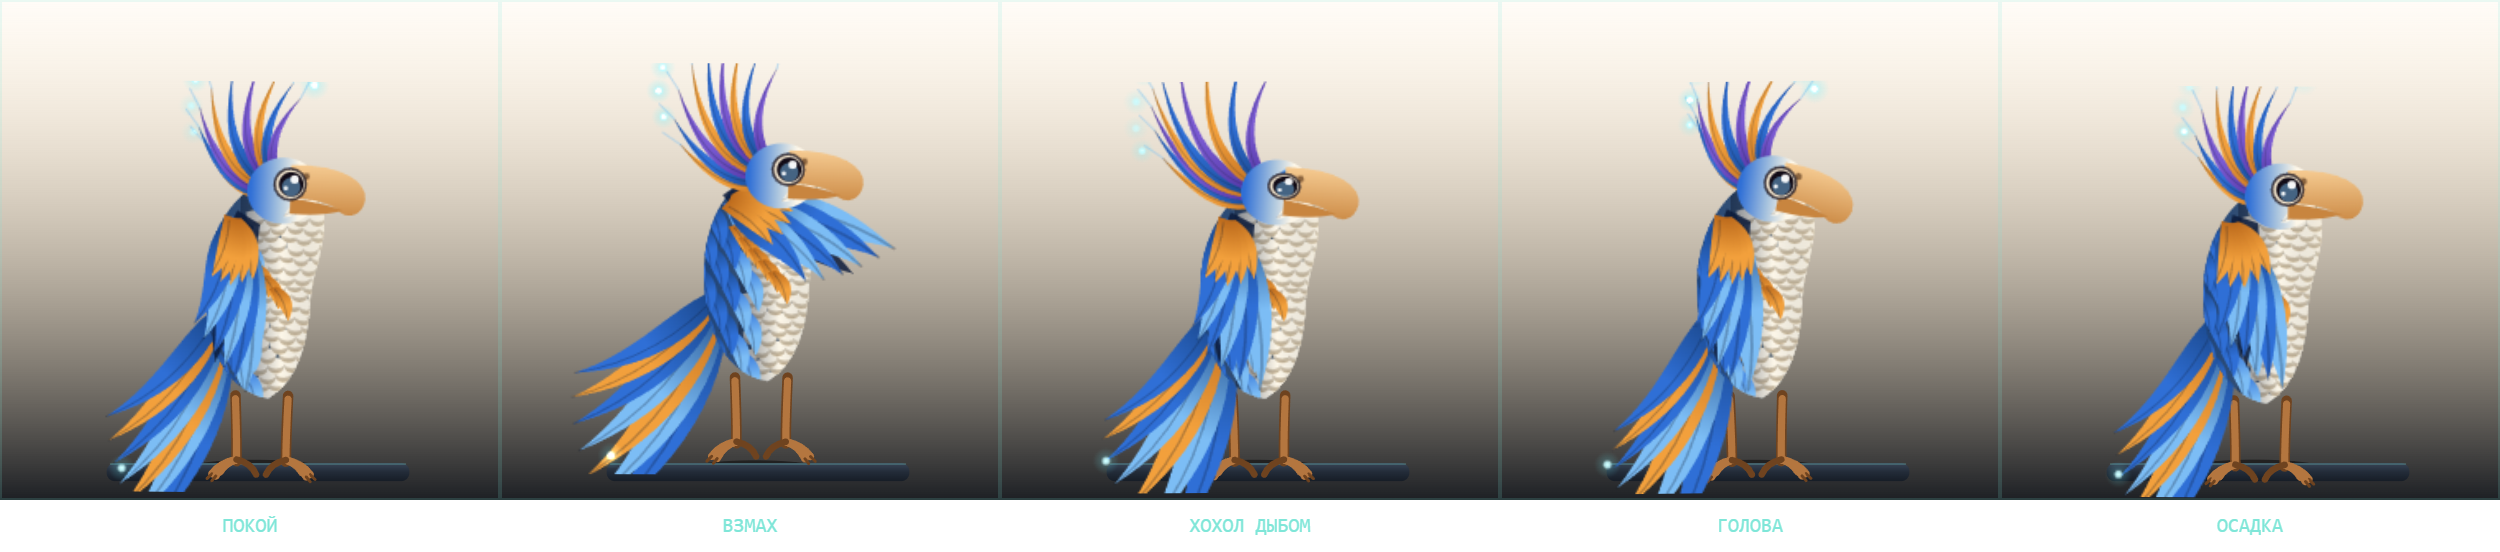
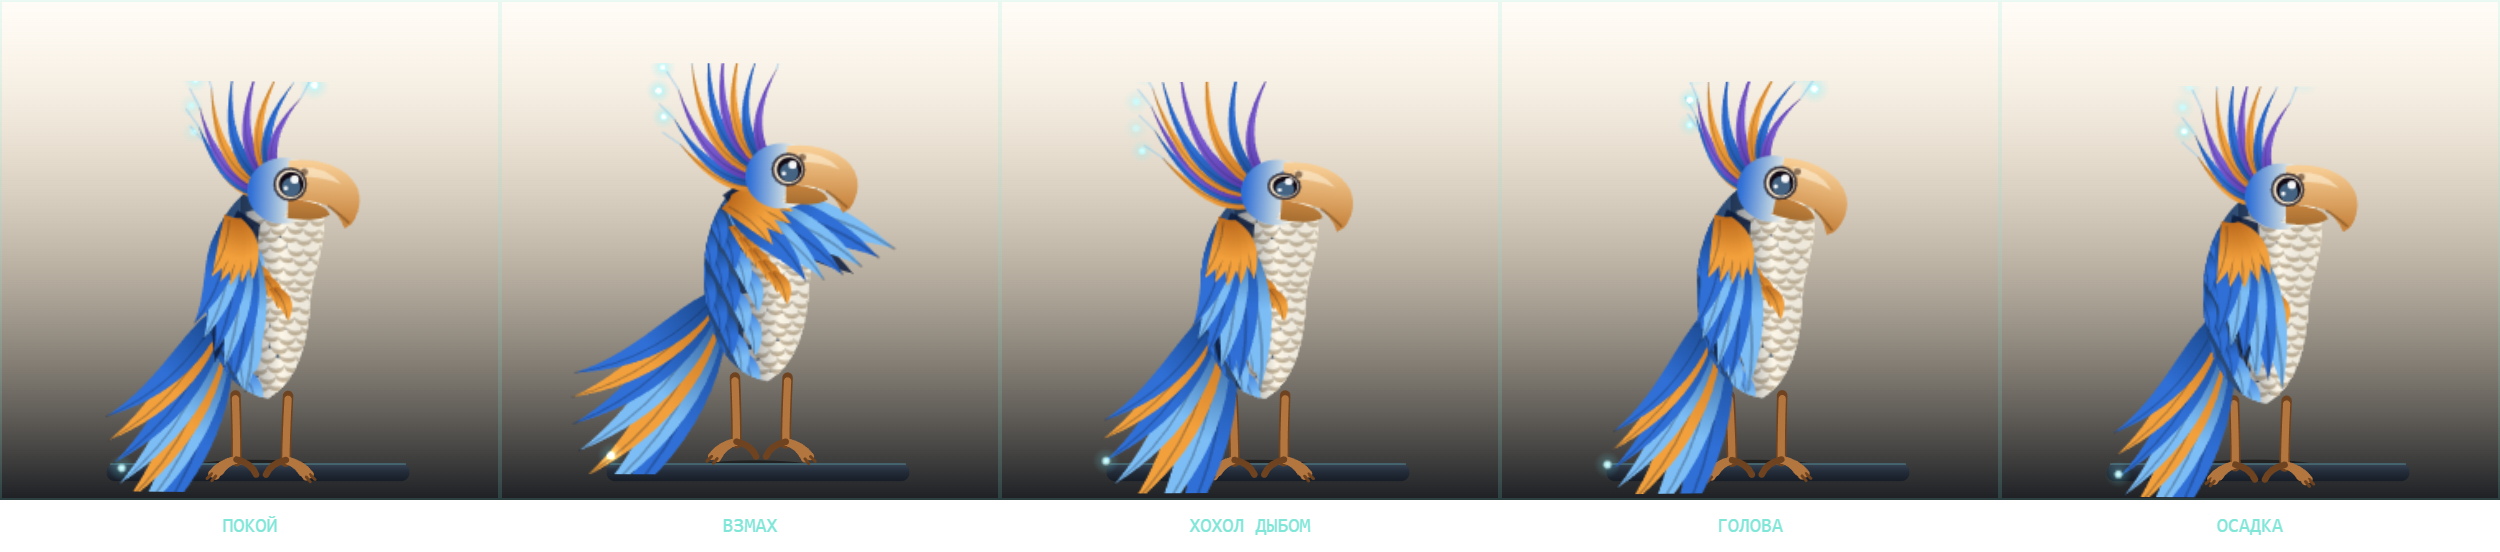
M117: the beak is a parrot's, not a crow's
It read as a long sharp wedge. Rebuilt as a high humped culmen turning down and
back under itself, with a blunt tip, an undercut shadow that keeps the hook a hook
rather than a lump, a highlight along the ridge and a short wide lower mandible.

diff --git a/docs/parrot.html b/docs/parrot.html
@@ -12413,19 +12413,40 @@ function parrotDraw(c,W,H){
   const bg2=g.createLinearGradient(0,-12,0,14);
   bg2.addColorStop(0,PAR_C.beak);bg2.addColorStop(1,PAR_C.beakD);
   g.fillStyle=bg2;
-  g.beginPath();g.moveTo(-8,-11);
-  g.bezierCurveTo(16,-12,27,-4,26,4);      /* спинка надклювья */
-  g.bezierCurveTo(25,10,20,13,15,10);      /* крючок */
-  g.bezierCurveTo(12,6,2,4,-8,4);
+  /* Клюв попугая — не клин, а высокая горбатая надклювная дуга, круто
+     заворачивающая вниз и НАЗАД, под себя. Прежний вариант был длинным и
+     острым: у птицы получался вороний клюв, а порода в референсе тупая и
+     мясистая, и держится она именно на этом изгибе. */
+  g.beginPath();
+  g.moveTo(-9,-13);                        /* восковица у самого лба */
+  g.bezierCurveTo(6,-15,18,-10,22,-2);     /* горб надклювья */
+  g.bezierCurveTo(25,4,23,11,20,15);       /* спуск к острию */
+  g.lineTo(17,17);                         /* само остриё — тупое, но остриё */
+  g.bezierCurveTo(15,12,12,9,9,7);         /* крючок подобран назад, с подрезом */
+  g.bezierCurveTo(4,5,-2,4.5,-9,4.5);
   g.closePath();g.fill();
-  /* подклювье отъезжает, когда птица говорит */
-  g.save();g.translate(0,PAR.beak*4.5);
-  g.fillStyle=PAR_C.beakD;
-  g.beginPath();g.moveTo(-8,4);g.quadraticCurveTo(8,6,16,9);
-  g.quadraticCurveTo(6,12,-8,11);g.closePath();g.fill();
+  /* подрез под крючком: тонкая тень, от которой остриё читается остриём,
+     а не округлым наплывом. Без неё клюв превращается в шишку. */
+  g.strokeStyle="rgba(90,54,16,.45)";g.lineWidth=1.1;
+  g.beginPath();g.moveTo(19,14.5);
+  g.bezierCurveTo(15,11,12,8.5,9,7);g.stroke();
+  /* блик по горбу: без него клюв — плоское пятно, а он гладкий и твёрдый */
+  g.fillStyle="rgba(255,246,226,.5)";
+  g.beginPath();g.moveTo(-4,-10);
+  g.quadraticCurveTo(8,-11,15,-3);
+  g.quadraticCurveTo(7,-6,-4,-6);g.closePath();g.fill();
+  /* подклювье: короткая широкая чаша, отъезжает, когда птица говорит */
+  g.save();g.translate(0,PAR.beak*5);
+  const lg2=g.createLinearGradient(0,4,0,15);
+  lg2.addColorStop(0,PAR_C.beakD);lg2.addColorStop(1,"#a06a2e");
+  g.fillStyle=lg2;
+  g.beginPath();g.moveTo(-9,4);
+  g.bezierCurveTo(2,5,9,7,10,11);
+  g.bezierCurveTo(6,14,-3,14,-9,13);
+  g.closePath();g.fill();
   g.restore();
   g.fillStyle="rgba(60,30,10,.55)";
-  g.beginPath();g.arc(-1,-6,1.5,0,7);g.fill();   /* ноздря */
+  g.beginPath();g.arc(-2,-8,1.6,0,7);g.fill();   /* ноздря */
   g.restore();
   /* 4г. глаз: крупный, круглый, с двумя бликами — от него всё обаяние */
   const bl=1-PAR.blink;

diff --git a/drift.html b/drift.html
@@ -12413,19 +12413,40 @@ function parrotDraw(c,W,H){
   const bg2=g.createLinearGradient(0,-12,0,14);
   bg2.addColorStop(0,PAR_C.beak);bg2.addColorStop(1,PAR_C.beakD);
   g.fillStyle=bg2;
-  g.beginPath();g.moveTo(-8,-11);
-  g.bezierCurveTo(16,-12,27,-4,26,4);      /* спинка надклювья */
-  g.bezierCurveTo(25,10,20,13,15,10);      /* крючок */
-  g.bezierCurveTo(12,6,2,4,-8,4);
+  /* Клюв попугая — не клин, а высокая горбатая надклювная дуга, круто
+     заворачивающая вниз и НАЗАД, под себя. Прежний вариант был длинным и
+     острым: у птицы получался вороний клюв, а порода в референсе тупая и
+     мясистая, и держится она именно на этом изгибе. */
+  g.beginPath();
+  g.moveTo(-9,-13);                        /* восковица у самого лба */
+  g.bezierCurveTo(6,-15,18,-10,22,-2);     /* горб надклювья */
+  g.bezierCurveTo(25,4,23,11,20,15);       /* спуск к острию */
+  g.lineTo(17,17);                         /* само остриё — тупое, но остриё */
+  g.bezierCurveTo(15,12,12,9,9,7);         /* крючок подобран назад, с подрезом */
+  g.bezierCurveTo(4,5,-2,4.5,-9,4.5);
   g.closePath();g.fill();
-  /* подклювье отъезжает, когда птица говорит */
-  g.save();g.translate(0,PAR.beak*4.5);
-  g.fillStyle=PAR_C.beakD;
-  g.beginPath();g.moveTo(-8,4);g.quadraticCurveTo(8,6,16,9);
-  g.quadraticCurveTo(6,12,-8,11);g.closePath();g.fill();
+  /* подрез под крючком: тонкая тень, от которой остриё читается остриём,
+     а не округлым наплывом. Без неё клюв превращается в шишку. */
+  g.strokeStyle="rgba(90,54,16,.45)";g.lineWidth=1.1;
+  g.beginPath();g.moveTo(19,14.5);
+  g.bezierCurveTo(15,11,12,8.5,9,7);g.stroke();
+  /* блик по горбу: без него клюв — плоское пятно, а он гладкий и твёрдый */
+  g.fillStyle="rgba(255,246,226,.5)";
+  g.beginPath();g.moveTo(-4,-10);
+  g.quadraticCurveTo(8,-11,15,-3);
+  g.quadraticCurveTo(7,-6,-4,-6);g.closePath();g.fill();
+  /* подклювье: короткая широкая чаша, отъезжает, когда птица говорит */
+  g.save();g.translate(0,PAR.beak*5);
+  const lg2=g.createLinearGradient(0,4,0,15);
+  lg2.addColorStop(0,PAR_C.beakD);lg2.addColorStop(1,"#a06a2e");
+  g.fillStyle=lg2;
+  g.beginPath();g.moveTo(-9,4);
+  g.bezierCurveTo(2,5,9,7,10,11);
+  g.bezierCurveTo(6,14,-3,14,-9,13);
+  g.closePath();g.fill();
   g.restore();
   g.fillStyle="rgba(60,30,10,.55)";
-  g.beginPath();g.arc(-1,-6,1.5,0,7);g.fill();   /* ноздря */
+  g.beginPath();g.arc(-2,-8,1.6,0,7);g.fill();   /* ноздря */
   g.restore();
   /* 4г. глаз: крупный, круглый, с двумя бликами — от него всё обаяние */
   const bl=1-PAR.blink;

diff --git a/src/12y-parrot-face.js b/src/12y-parrot-face.js
@@ -365,19 +365,40 @@ function parrotDraw(c,W,H){
   const bg2=g.createLinearGradient(0,-12,0,14);
   bg2.addColorStop(0,PAR_C.beak);bg2.addColorStop(1,PAR_C.beakD);
   g.fillStyle=bg2;
-  g.beginPath();g.moveTo(-8,-11);
-  g.bezierCurveTo(16,-12,27,-4,26,4);      /* спинка надклювья */
-  g.bezierCurveTo(25,10,20,13,15,10);      /* крючок */
-  g.bezierCurveTo(12,6,2,4,-8,4);
+  /* Клюв попугая — не клин, а высокая горбатая надклювная дуга, круто
+     заворачивающая вниз и НАЗАД, под себя. Прежний вариант был длинным и
+     острым: у птицы получался вороний клюв, а порода в референсе тупая и
+     мясистая, и держится она именно на этом изгибе. */
+  g.beginPath();
+  g.moveTo(-9,-13);                        /* восковица у самого лба */
+  g.bezierCurveTo(6,-15,18,-10,22,-2);     /* горб надклювья */
+  g.bezierCurveTo(25,4,23,11,20,15);       /* спуск к острию */
+  g.lineTo(17,17);                         /* само остриё — тупое, но остриё */
+  g.bezierCurveTo(15,12,12,9,9,7);         /* крючок подобран назад, с подрезом */
+  g.bezierCurveTo(4,5,-2,4.5,-9,4.5);
   g.closePath();g.fill();
-  /* подклювье отъезжает, когда птица говорит */
-  g.save();g.translate(0,PAR.beak*4.5);
-  g.fillStyle=PAR_C.beakD;
-  g.beginPath();g.moveTo(-8,4);g.quadraticCurveTo(8,6,16,9);
-  g.quadraticCurveTo(6,12,-8,11);g.closePath();g.fill();
+  /* подрез под крючком: тонкая тень, от которой остриё читается остриём,
+     а не округлым наплывом. Без неё клюв превращается в шишку. */
+  g.strokeStyle="rgba(90,54,16,.45)";g.lineWidth=1.1;
+  g.beginPath();g.moveTo(19,14.5);
+  g.bezierCurveTo(15,11,12,8.5,9,7);g.stroke();
+  /* блик по горбу: без него клюв — плоское пятно, а он гладкий и твёрдый */
+  g.fillStyle="rgba(255,246,226,.5)";
+  g.beginPath();g.moveTo(-4,-10);
+  g.quadraticCurveTo(8,-11,15,-3);
+  g.quadraticCurveTo(7,-6,-4,-6);g.closePath();g.fill();
+  /* подклювье: короткая широкая чаша, отъезжает, когда птица говорит */
+  g.save();g.translate(0,PAR.beak*5);
+  const lg2=g.createLinearGradient(0,4,0,15);
+  lg2.addColorStop(0,PAR_C.beakD);lg2.addColorStop(1,"#a06a2e");
+  g.fillStyle=lg2;
+  g.beginPath();g.moveTo(-9,4);
+  g.bezierCurveTo(2,5,9,7,10,11);
+  g.bezierCurveTo(6,14,-3,14,-9,13);
+  g.closePath();g.fill();
   g.restore();
   g.fillStyle="rgba(60,30,10,.55)";
-  g.beginPath();g.arc(-1,-6,1.5,0,7);g.fill();   /* ноздря */
+  g.beginPath();g.arc(-2,-8,1.6,0,7);g.fill();   /* ноздря */
   g.restore();
   /* 4г. глаз: крупный, круглый, с двумя бликами — от него всё обаяние */
   const bl=1-PAR.blink;

diff --git a/docs/INDEX.md b/docs/INDEX.md
@@ -946,30 +946,30 @@ padsFadeIn                   src/15-input.js:12
 padsFadeOut                  src/15-input.js:11
 PAR                          src/12y-parrot-face.js:50
 PAR_C                        src/12y-parrot-face.js:37
-PAR_DPR                      src/12y-parrot-face.js:513
-PAR_IDLE                     src/12y-parrot-face.js:470
-PAR_L                        src/12y-parrot-face.js:426
+PAR_DPR                      src/12y-parrot-face.js:534
+PAR_IDLE                     src/12y-parrot-face.js:491
+PAR_L                        src/12y-parrot-face.js:447
 parBead                      src/12y-parrot-face.js:126
 parBodyPath                  src/12y-parrot-face.js:150
 parCoat                      src/12y-parrot-face.js:164
 parFoot                      src/12y-parrot-face.js:215
-parLayer                     src/12y-parrot-face.js:427
+parLayer                     src/12y-parrot-face.js:448
 parPlume                     src/12y-parrot-face.js:71
 parQuill                     src/12y-parrot-face.js:56
 PARROT_NAMES                 src/12x-parrot.js:24
-parrotBtnTick                src/12y-parrot-face.js:507
+parrotBtnTick                src/12y-parrot-face.js:528
 parrotDock                   src/12x-parrot.js:141
 parrotDraw                   src/12y-parrot-face.js:237
 parrotFind                   src/12x-parrot.js:30
-parrotFrame                  src/12y-parrot-face.js:514
+parrotFrame                  src/12y-parrot-face.js:535
 parrotHas                    src/12x-parrot.js:25
 parrotHeardKill              src/13-pirates.js:172
-parrotLine                   src/12y-parrot-face.js:471
-parrotPoke                   src/12y-parrot-face.js:487
+parrotLine                   src/12y-parrot-face.js:492
+parrotPoke                   src/12y-parrot-face.js:508
 parRow                       src/12y-parrot-face.js:136
 parScale                     src/12y-parrot-face.js:102
-parSpring                    src/12y-parrot-face.js:441
-parStep                      src/12y-parrot-face.js:445
+parSpring                    src/12y-parrot-face.js:462
+parStep                      src/12y-parrot-face.js:466
 PART_BONUS                   src/05-parts.js:196
 PART_GEN                     src/05-parts.js:6
 PART_KEYS                    src/05-parts.js:27
@@ -1369,7 +1369,7 @@ tnoise                       src/18a-material.js:16
 toggleLog                    src/11-log.js:89
 toggleLoreBoard              src/27h-ui-lore.js:83
 toggleMenu                   src/15-input.js:126
-toggleParrotWin              src/12y-parrot-face.js:527
+toggleParrotWin              src/12y-parrot-face.js:548
 totalLoss                    src/21-mode-surface.js:305
 tracePath                    src/25-cockpit.js:159
 tracePoly                    src/03b-hull-paint.js:1
@@ -1605,7 +1605,7 @@ ZAP_COOL                     src/23-mode-dig.js:212
 ## src/12x-parrot.js · 10 КБ
   · трепло: свидетель, который не понимает:1
 
-## src/12y-parrot-face.js · 29 КБ
+## src/12y-parrot-face.js · 31 КБ
   · трепло: жёрдочка:1
 
 ## src/13b-occupy.js · 17 КБ
